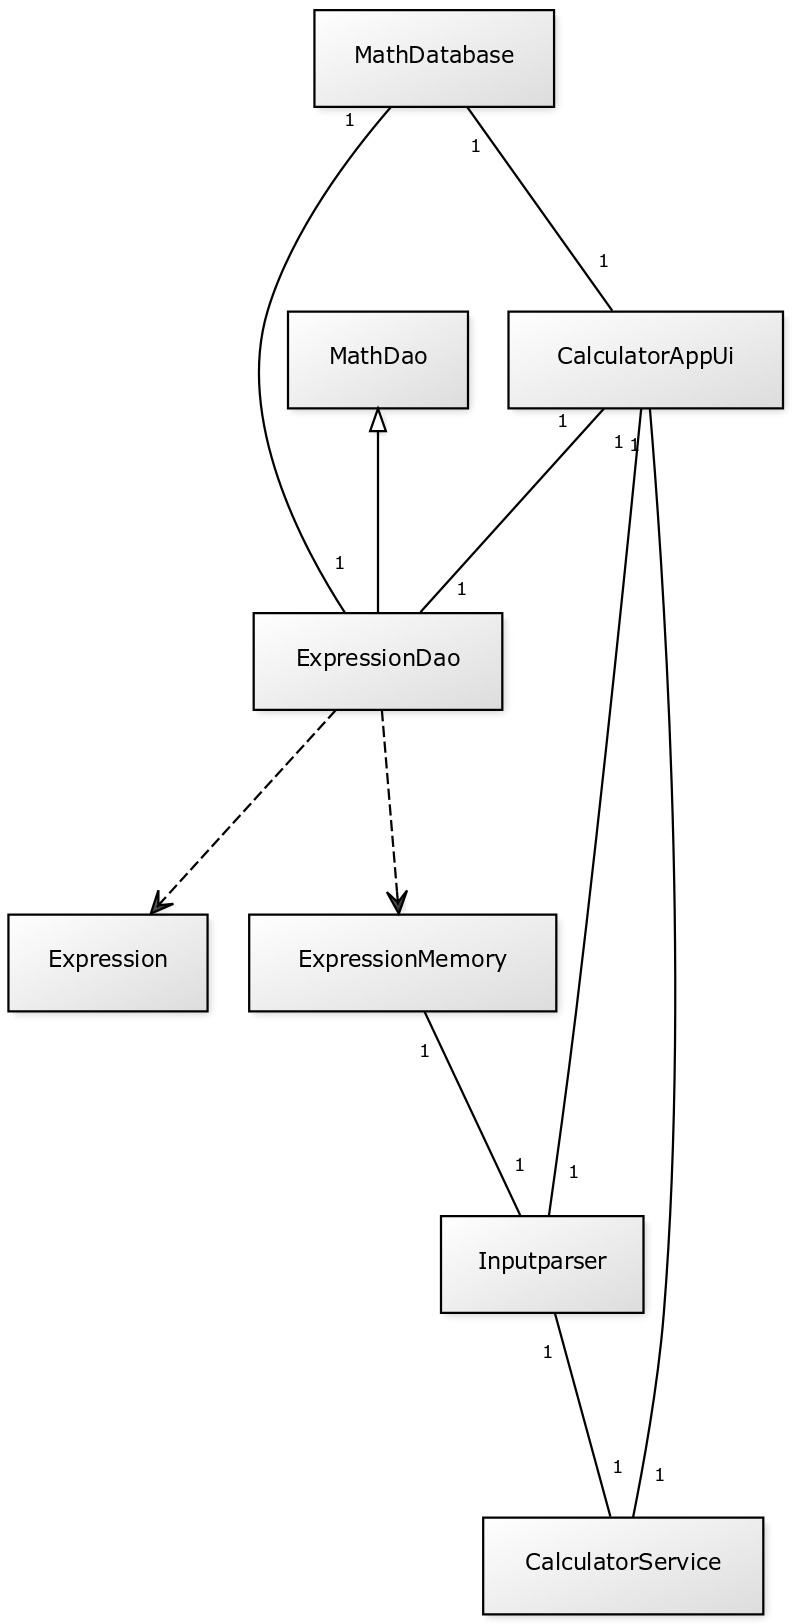
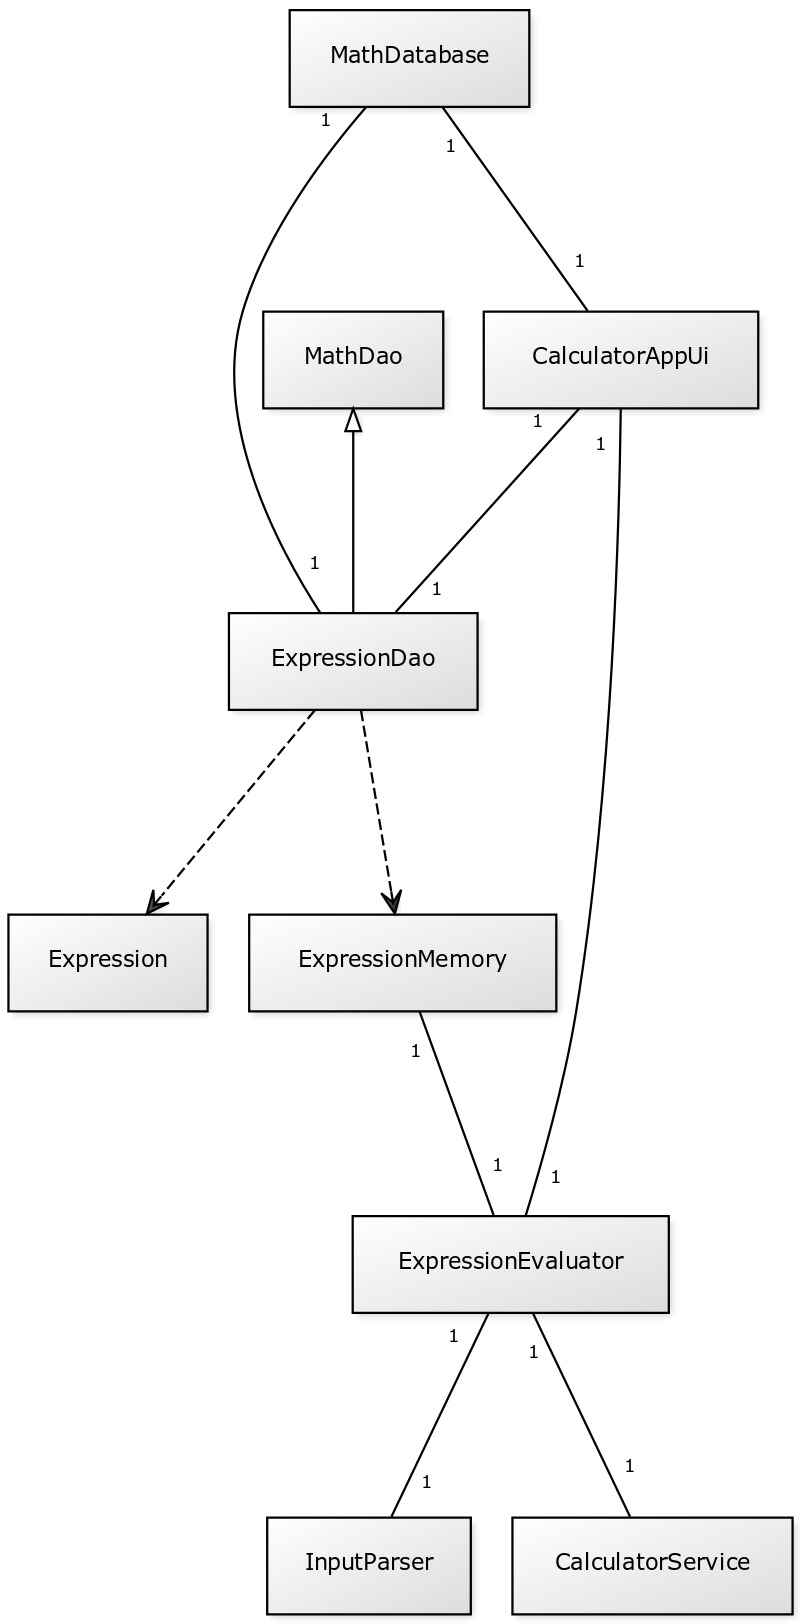
documentation update

diff --git a/CalculatorApp/src/main/java/calculatorapp/logic/ExpressionMemory.java b/CalculatorApp/src/main/java/calculatorapp/logic/ExpressionMemory.java
@@ -21,11 +21,10 @@ public class ExpressionMemory {
 
     /**
      * The constructor gets an InputParser and an int value as parameters.
-     * MemoryLimit tells how many expressions are kept in memory and thus shown
-     * to the user.
      *
-     * @param exprEval
-     * @param memoryLimit
+     * @param exprEval an ExpressionEvaluator is used to double check that expressions saved in database are valid
+     * @param memoryLimit tells how many expressions are kept in memory and thus shown
+     * to the user.
      */
     public ExpressionMemory(ExpressionEvaluator exprEval, int memoryLimit) {
         this.memExpressions = new ArrayList<>();
@@ -69,7 +68,7 @@ public class ExpressionMemory {
     /**
      * Returns current limit for how many expressions are kept in memory.
      *
-     * @return
+     * @return 
      */
     public int getMemoryLimit() {
         return this.memoryLimit;
@@ -78,7 +77,7 @@ public class ExpressionMemory {
     /**
      * Sets the desired size for how many expressions are kept in memory.
      *
-     * @param value
+     * @param value is the value specified by the user 
      */
     public void setMemoryLimit(int value) {
         if (value >= 0) {

diff --git a/CalculatorApp/src/main/java/calculatorapp/logic/InputParser.java b/CalculatorApp/src/main/java/calculatorapp/logic/InputParser.java
@@ -4,7 +4,10 @@ import java.util.Stack;
 
 /**
  * The class InputParser is responsible for checking that the input is valid
- * before it is evaluated by ExpressionEvaluator
+ * before it is evaluated by ExpressionEvaluator.
+ * 
+ * Among notable methods are checking that bracketing is equal
+ * @see  bracketingEquals
  *
  * @author jpssilve
  */
@@ -89,9 +92,9 @@ public class InputParser {
         return !(isDot && (before == '.' || after == '.'));
     }
 
-    protected boolean isAFunction(String maybeF) {
-        return maybeF.equals("sqrt") || maybeF.equals("sin") || maybeF.equals("cos") || maybeF.equals("tan")
-                || maybeF.equals("ln") || maybeF.equals("log") || maybeF.equals("abs") || maybeF.equals("neg") || maybeF.equals("%");
+    protected boolean isAFunction(String maybeFunc) {
+        return maybeFunc.equals("sqrt") || maybeFunc.equals("sin") || maybeFunc.equals("cos") || maybeFunc.equals("tan")
+                || maybeFunc.equals("ln") || maybeFunc.equals("log") || maybeFunc.equals("abs") || maybeFunc.equals("neg") || maybeFunc.equals("%");
     }
 
     protected boolean startsAFunction(char start) {

diff --git a/CalculatorApp/src/main/java/calculatorapp/logic/CalculatorService.java b/CalculatorApp/src/main/java/calculatorapp/logic/CalculatorService.java
@@ -57,20 +57,10 @@ public class CalculatorService {
     /**
      *
      * @param x
-     * @return a number as a percentage
+     * @return a percentage as decimal value
      */
     public double percent(double x) {
         return x / 100.0;
-    }
-
-    /**
-     *
-     * @param x
-     * @param y
-     * @return the x modulo y
-     */
-    public long modulo(long x, long y) {
-        return x % y;
     }
 
     /**
@@ -155,7 +145,7 @@ public class CalculatorService {
 
     /**
      * Due to double precision, situations where cos x = 0 in tan x = sin x /
-     * cos x should not arise.
+     * cos x should not arise i.e. divide by zero should not arise.
      *
      * @param x is in radians
      * @return
@@ -165,7 +155,8 @@ public class CalculatorService {
     }
 
     /**
-     * This function return the parameter multiplied by two.
+     * This function returns the parameter multiplied by minus 1 and mainly
+     * serves to provide handling of negative numbers in expression evaluation.
      *
      * @param x
      * @return the negation of a number

diff --git a/CalculatorApp/src/main/java/calculatorapp/logic/ExpressionEvaluator.java b/CalculatorApp/src/main/java/calculatorapp/logic/ExpressionEvaluator.java
@@ -159,10 +159,12 @@ public class ExpressionEvaluator {
      *
      * This ArrayDeque consisting of the numbers, functions and operators is
      * then passed to the postfixEvaluator, which actually evaluates the
-     * expression and returns a double value.
+     * expression from left to right (in postfix notation) and returns a double
+     * value.
      *
      * @param expression
-     * @return
+     * @return a double value, or NaN if expression cannot be evaluated or
+     * positive infinity if the expression is too long
      */
     public double expressionEvaluation(String expression) {
         if (expression.length() > 1000) {

diff --git a/CalculatorApp/src/main/java/calculatorapp/ui/CalculatorAppUi.java b/CalculatorApp/src/main/java/calculatorapp/ui/CalculatorAppUi.java
@@ -34,6 +34,8 @@ import javafx.util.Duration;
 /**
  * This is the graphical user interface for the CalculatorApp.
  *
+ * It provides calculator functionality and database functionality alongside it.
+ *
  * @author jpssilve
  */
 public class CalculatorAppUi extends Application {
@@ -138,7 +140,7 @@ public class CalculatorAppUi extends Application {
         height = 500;
 
         createAllButtons();
-        int divider = 7;
+        int divider = 8;
         setButtonSize(mainGridButtons, divider);
         setButtonSize(auxGridButtons, divider);
 

diff --git a/CalculatorApp/src/test/java/calculatorapp/logic/CalculatorServiceTest.java b/CalculatorApp/src/test/java/calculatorapp/logic/CalculatorServiceTest.java
@@ -53,11 +53,6 @@ public class CalculatorServiceTest {
     }
 
     @Test
-    public void moduloIsCorrect() {
-        assertEquals(44, calcServ.modulo(101, 57));
-    }
-
-    @Test
     public void naturalLogNonPositiverArgumentsNotAllowed() {
         assertEquals(Double.NaN, calcServ.naturalLog(-1), 0.001);
     }

diff --git a/CalculatorApp/src/main/java/calculatorapp/dao/MathDatabase.java b/CalculatorApp/src/main/java/calculatorapp/dao/MathDatabase.java
@@ -54,7 +54,7 @@ public class MathDatabase {
     /**
      * Returns a connection to the underlying SQLite database.
      *
-     * @return
+     * @return 
      * @throws SQLException
      */
     public Connection getConnection() throws SQLException {

diff --git a/dokumentointi/arkkitehtuuri.md b/dokumentointi/arkkitehtuuri.md
@@ -1,3 +1,7 @@
+# Software architecture
+
+## Application logic
+
 **Package diagram**
 
 ![package diagram](https://github.com/Jsos17/CalculatorApp/blob/master/dokumentointi/calculatorapp_package_diagram.jpg)
@@ -7,7 +11,36 @@
 ![class diagram](https://github.com/Jsos17/CalculatorApp/blob/master/dokumentointi/calculatorapp_class_diagram.jpg)
 
 
+## Long-term storage of expressions
+
+### SQL database
+
+The CalculatorApp provides an SQL database connection, and alongside the calculator functionality an user interface to save, retrieve and delete expressions.
+
+The configuration file [config.properties](https://github.com/Jsos17/CalculatorApp/blob/master/CalculatorApp/config.properties) stores the name of the database that is in use.
+
+The format of the saved expressions in the SQL database is the following:
+
+     Expression (id integer PRIMARY KEY, symbols varchar(1000))
+
+Thus the only input relevant to the user is the actual expression *symbols* that is stored in textual form.
+
+Expressions are not modifiable in the database, instead simply a new expression is added. The user can easily delete duplicates (or near duplicates) by selecting them from the list and then pressing *Delete the selected expression from database*. 
+
+During the execution of the program, the app automatically stores expressions in memory, so that the user does not need to remember to save every single expression instantly. The size of the memory can be configured by the user.
+
+When a save, retrieval or delete operation is executed by pushing the appropriate button, a success/failure message is shown to the user for a duration of 10 seconds. The failure message is shown, if the underlying ExpressionDao class throws an SQLException, otherwise  a success message is shown.
+
+The database list does not update automatically. Instead, after a save the user needs to retrieve all expressions from the database to see the newly saved expression there.
+
+## Main functionality
+
 **Sequence diagrams**
 
 ![Expression evaluation](https://github.com/Jsos17/CalculatorApp/blob/master/dokumentointi/Expression%20evaluation%20sequence.png)
 
+## Weaknesses remaining in the program
+
+Automated testing for the expression evaluation algorithms would insure that the implementations actually work as intended in all scenarios. Now test cases were created manually and for more complex ones, the result produced by wolfram-alpha for the same expression was the comparison basis. 
+
+The graphical user interface would benefit greatly from refactoring.

diff --git a/dokumentointi/kayttoohje.md b/dokumentointi/kayttoohje.md
@@ -50,6 +50,6 @@ Maximum size for expression is currently set at 1000 characters, which cannot be
 
 **Save all expressions in memory** inserts all the expressions that are in memory into the database.
 
-**Save the selected expression** inserts the selected expression into SQLite Expression table. If the expression already existed in the database, a duplicate is inserted anyway.
+**Save the selected expression** inserts the selected expression into the Expression table. If the expression already existed in the database, a duplicate is inserted anyway.
 
 **Copy the selected memory expression** copies the selected expression in memory to input field.
